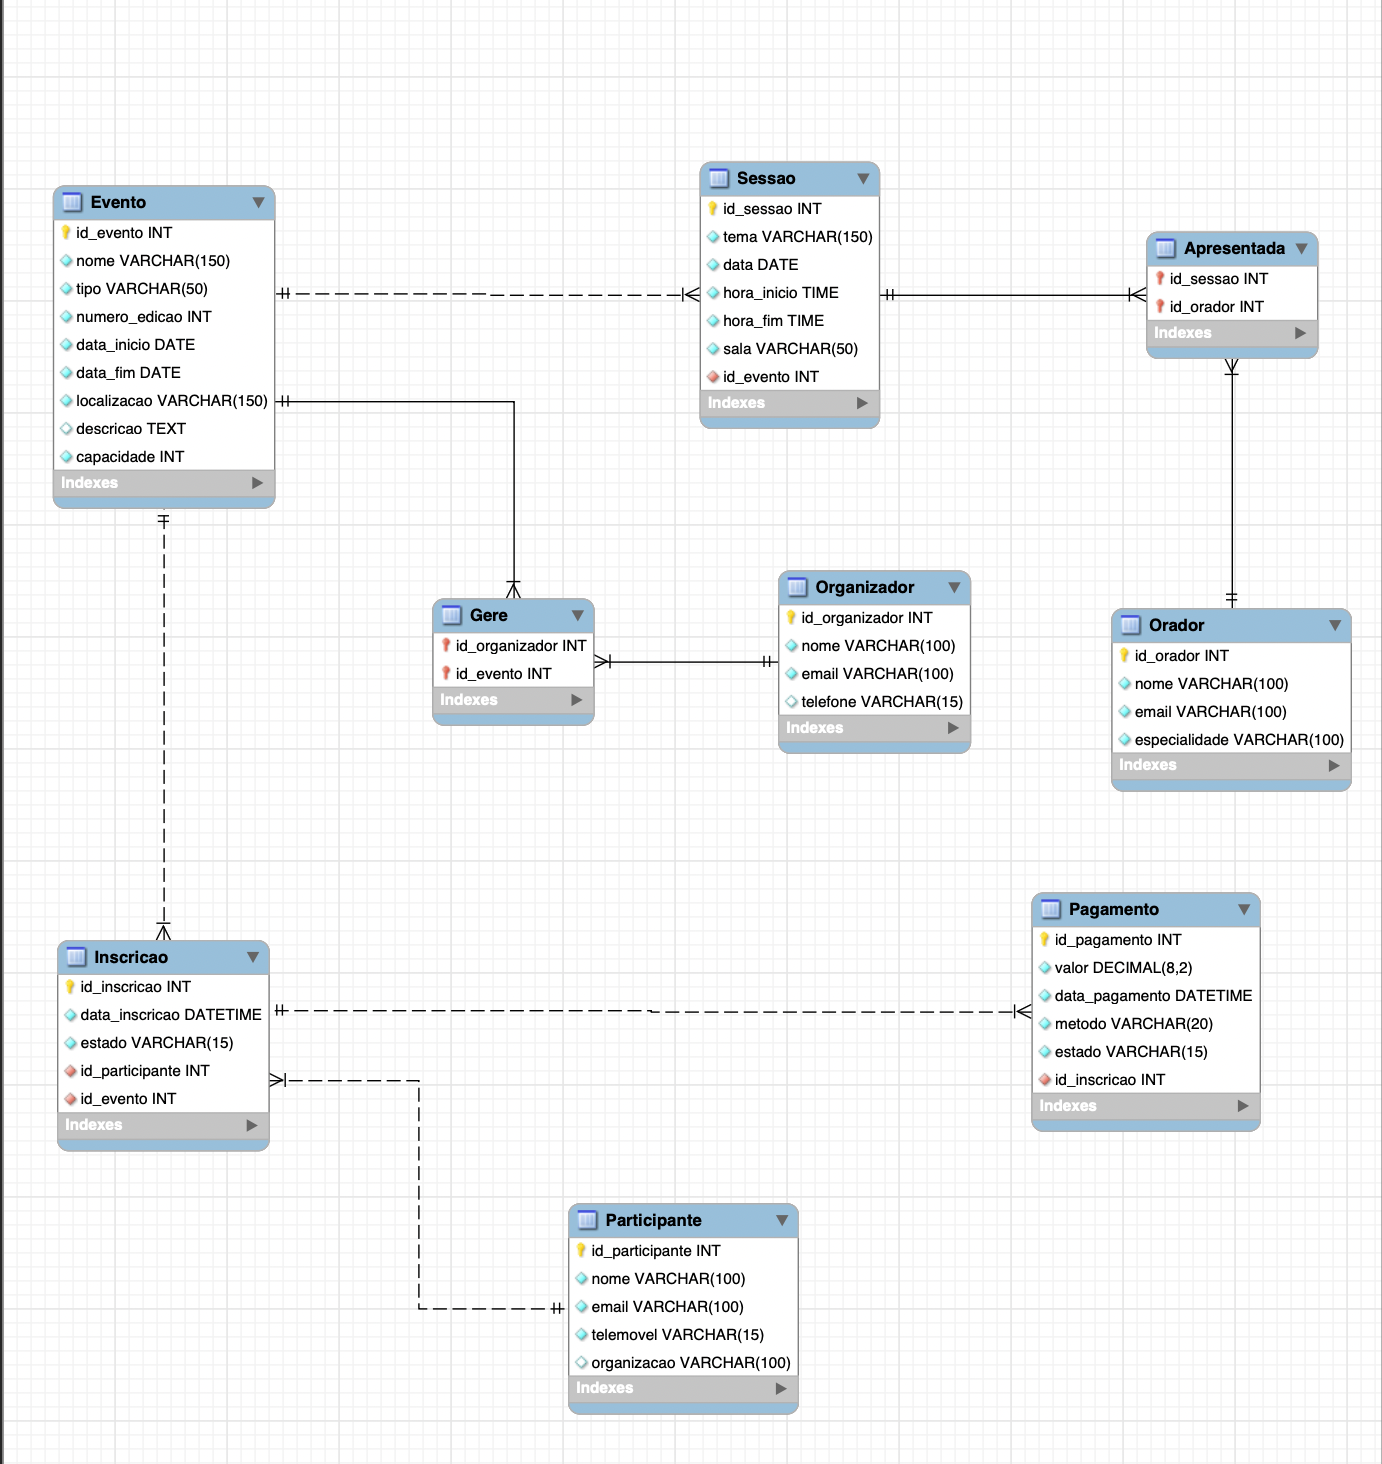
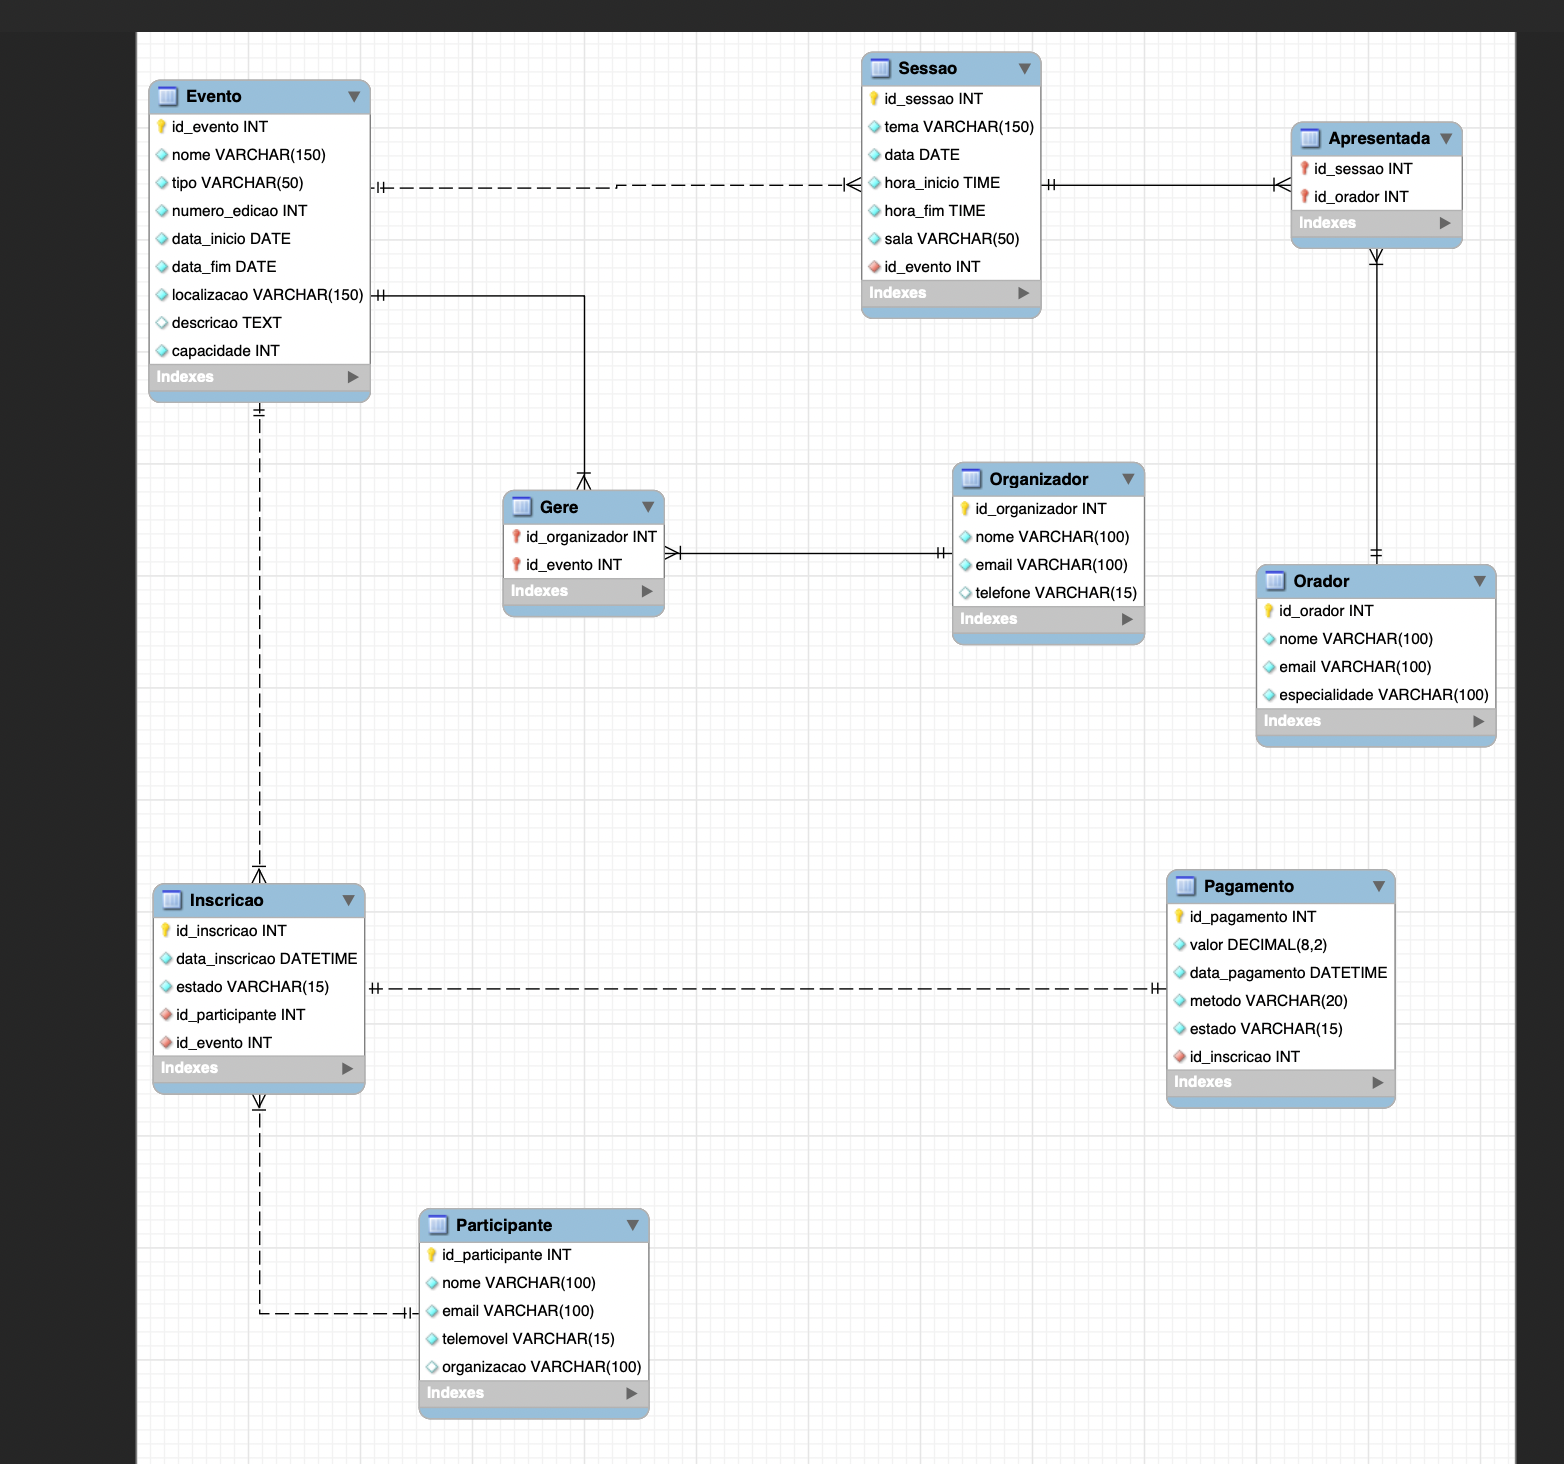
fix: corrigir modelo lógico e atualizar relatório (Secção 3, 4)
- Remover tabela associativa Tem (R5 era N:M sem base em RD4)
- Adicionar FK id_evento em Sessao (relação 1:N Evento→Sessao)
- Adicionar campo numero_edicao em Evento (RD1)
- Corrigir telemovel para NOT NULL em Participante (RD7)
- Corrigir sala para NOT NULL em Sessao (RC6)
- Atualizar dicionários lógicos (Tabelas 14, 15, 17)
- Atualizar tabelas conceptuais (Tabelas 7, 10, 12)
- Atualizar DFs da normalização (Evento, Sessao)
- Atualizar modelo lógico (modLgico.png) via Workbench
- Corrigir relação Inscricao↔Pagamento para 1:1 no diagrama

diff --git a/Relatório/relatório.tex b/Relatório/relatório.tex
@@ -842,8 +842,8 @@
                     distinguir inequivocamente cada participante. O atributo \texttt{nome} regista o nome completo 
                     do participante, sendo de preenchimento obrigatório. O atributo \texttt{e-mail} armazena o 
                     endereço de correio eletrónico do participante, devendo ser único no sistema dado que serve 
-                    também como meio de identificação e contacto. O atributo \texttt{telemovel} guarda o número 
-                    de contacto telefónico, de preenchimento opcional. Por fim, o atributo 
+                    também como meio de identificação e contacto. O atributo \texttt{telemovel} guarda o número
+                    de contacto telefónico, sendo de preenchimento obrigatório (RD7). Por fim, o atributo 
                     \texttt{organização/instituição} indica a entidade à qual o participante está afiliado, sendo 
                     igualmente opcional, pois nem todos os participantes representam necessariamente uma organização.
 
@@ -857,7 +857,7 @@
                     \texttt{id\_participante}        & Identificador sequencial & \texttt{INT} & N & 1 & --- \\ \hline
                     \texttt{nome}                    & Nome completo do participante & \texttt{VARCHAR(100)} & N & Tiago Santos & RD1 \\ \hline
                     \texttt{e-mail}                  & Endereço eletrónico & \texttt{VARCHAR(100)} & N & [email redacted] & RD1 \\ \hline
-                    \texttt{telemovel}               & Número de telemóvel & \texttt{VARCHAR(15)} & S & 912345678 & RD1 \\ \hline
+                    \texttt{telemovel}               & Número de telemóvel & \texttt{VARCHAR(15)} & N & 912345678 & RD7 \\ \hline
                     \texttt{organização}             & Instituição que representa & \texttt{VARCHAR(100)} & S & UMinho & RD1 \\ \hline
                     \end{tabular}
                     }
@@ -962,7 +962,8 @@
                     A entidade \textit{Evento} é a entidade central do modelo, agregando a informação descritiva 
                     de cada evento gerido pelo sistema. O atributo \texttt{id\_evento} é a chave primária. 
                     O atributo \texttt{Nome} identifica o evento de forma textual. O atributo \texttt{Tipo} 
-                    classifica o evento segundo a sua natureza (por exemplo: conferência, workshop, seminário). 
+                    classifica o evento segundo a sua natureza (por exemplo: conferência, workshop, seminário).
+                    O atributo \texttt{numero\_edicao} identifica a edição do evento (por exemplo: 1.ª, 2.ª edição).
                     Os atributos \texttt{data\_inicio} e \texttt{data\_fim} delimitam o período de realização 
                     do evento. O atributo \texttt{localização} indica o local onde o evento decorre. O atributo 
                     \texttt{descrição} permite registar uma apresentação mais detalhada do evento. Por último, 
@@ -979,6 +980,7 @@
                     \texttt{id\_evento}   & Identificador sequencial & \texttt{INT} & N & 5 & --- \\ \hline
                     \texttt{Nome}         & Nome do evento & \texttt{VARCHAR(150)} & N & FestivaliUM & RD1 \\ \hline
                     \texttt{Tipo}         & Categoria do evento & \texttt{VARCHAR(50)} & N & Conferência & RD1 \\ \hline
+                    \texttt{numero\_edicao} & Número de edição & \texttt{INT} & N & 3 & RD1 \\ \hline
                     \texttt{data\_inicio} & Data de início & \texttt{DATE} & N & 2026-06-01 & RD1 \\ \hline
                     \texttt{data\_fim}    & Data de término & \texttt{DATE} & N & 2026-06-05 & RD1 \\ \hline
                     \texttt{localização}  & Sede principal & \texttt{VARCHAR(150)} & N & Braga & RD1 \\ \hline
@@ -1055,7 +1057,7 @@
                     \texttt{data}         & Data de realização & \texttt{DATE} & N & 2026-06-02 & RD4 \\ \hline
                     \texttt{hora\_inicio} & Início da sessão & \texttt{TIME} & N & 14:00 & RD4 \\ \hline
                     \texttt{hora\_fim}    & Fim da sessão & \texttt{TIME} & N & 16:00 & RD4 \\ \hline
-                    \texttt{sala}         & Espaço físico alocado & \texttt{VARCHAR(50)} & S & Auditório B1 & RD4 \\ \hline
+                    \texttt{sala}         & Espaço físico alocado & \texttt{VARCHAR(50)} & N & Auditório B1 & RD4 \\ \hline
                     \end{tabular}
                     }
                     \vspace{0.2cm}
@@ -1262,7 +1264,7 @@
                 id\_participante & INT              & N & N \\ \hline
                 nome             & VARCHAR(100)     & N & N \\ \hline
                 email            & VARCHAR(100)     & N & N \\ \hline
-                telemovel        & VARCHAR(15)      & S & N \\ \hline
+                telemovel        & VARCHAR(15)      & N & N \\ \hline
                 organizacao      & VARCHAR(100)     & S & N \\ \hline
                 \end{tabular}
                 \vspace{0.2cm}
@@ -1280,6 +1282,7 @@
                 homónima (RD1). Agrega toda a informação descritiva de cada evento. A chave
                 primária \texttt{id\_evento} é gerada automaticamente pelo sistema. A restrição
                 \texttt{CHECK(data\_inicio <= data\_fim)} garante a coerência temporal do evento.
+                O atributo \texttt{numero\_edicao} regista a edição do evento, sendo de preenchimento obrigatório.
 
                 \begin{table}[H]
                 \centering
@@ -1290,6 +1293,7 @@
                 id\_evento   & INT          & N & N \\ \hline
                 nome         & VARCHAR(150) & N & N \\ \hline
                 tipo         & VARCHAR(50)  & N & N \\ \hline
+                numero\_edicao & INT          & N & N \\ \hline
                 data\_inicio & DATE         & N & N \\ \hline
                 data\_fim    & DATE         & N & N \\ \hline
                 localizacao  & VARCHAR(150) & N & N \\ \hline
@@ -1354,7 +1358,7 @@
                 data         & DATE         & N & N \\ \hline
                 hora\_inicio & TIME         & N & N \\ \hline
                 hora\_fim    & TIME         & N & N \\ \hline
-                sala         & VARCHAR(50)  & S & N \\ \hline
+                sala         & VARCHAR(50)  & N & N \\ \hline
                 id\_evento   & INT          & N & S \\ \hline
                 \end{tabular}
                 \vspace{0.2cm}
@@ -1529,9 +1533,9 @@
                     \item \texttt{email} $\to$ id\_participante, nome, telemovel, organizacao \hfill (\textit{chave alternativa --- UNIQUE})
                 \end{itemize}
 
-                \noindent\textbf{Evento} (\underline{id\_evento}, nome, tipo, data\_inicio, data\_fim, localizacao, descricao, capacidade)
+                \noindent\textbf{Evento} (\underline{id\_evento}, nome, tipo, numero\_edicao, data\_inicio, data\_fim, localizacao, descricao, capacidade)
                 \begin{itemize}
-                    \item \texttt{id\_evento} $\to$ nome, tipo, data\_inicio, data\_fim, localizacao, descricao, capacidade
+                    \item \texttt{id\_evento} $\to$ nome, tipo, numero\_edicao, data\_inicio, data\_fim, localizacao, descricao, capacidade
                 \end{itemize}
 
                 \noindent\textbf{Organizador} (\underline{id\_organizador}, nome, email, telefone)